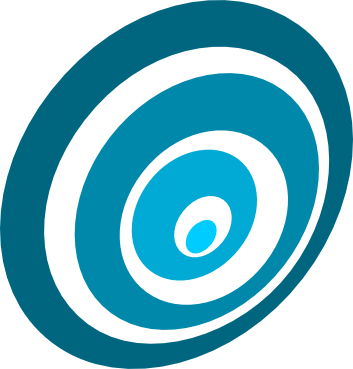
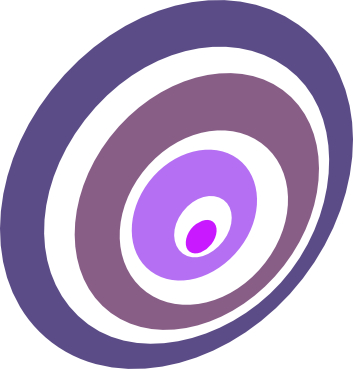
New colour theme!

diff --git a/index.html b/index.html
@@ -24,7 +24,7 @@
 
   .jumbotron {
     font-family: Montserrat, sans-serif;
-    background: #1B6884;
+    background: rgb(91, 76, 135);
     text-align: center;
     color: white;
     min-height: 200px;
@@ -39,7 +39,7 @@
 
 
   .panel-footer.panel-custom {
-    background: #1B6884;
+    background: rgb(91, 76, 135);
     color: white;
     text-align: center;
     padding-top: 25px;
@@ -54,7 +54,7 @@
 
   .navbar-default {
     font-family: Montserrat, sans-serif;
-    background-color: #1B6884;
+    background-color: rgb(91, 76, 135);
     letter-spacing: 2px;
   }
 
@@ -73,7 +73,7 @@
   }
 
   .navbar-default .nav-tabs li a:hover, .navbar-default .nav-tabs .nav-link.active {
-    color: #1B6884 !important;
+    color: rgb(91, 76, 135) !important;
     background-color: #fff !important;
   }
 
@@ -87,13 +87,13 @@
   }
 
   .card-header {
-    background: #1B6884;
+    background: rgb(91, 76, 135);
     color: white;
     height: 175px;
   }
 
   .card-footer {
-    background: #1B6884;
+    background: rgb(91, 76, 135);
     color: white;
     height: 50px;
   }
@@ -179,7 +179,7 @@
 
       <div class="col-12 col-sm-6 col-lg-6 order-1 order-sm-1 order-lg-2">
         <div class="card" style="max-height:900px; min-width: 300px">
-          <img class="card-img-top" src="SMC_Circles.jpg" alt="Card image" style="width:100%; max-height: 300px">
+          <img class="card-img-top" src="SMC_cover.png" alt="Card image" style="width:100%; max-height: 300px">
           <div class="card-header">
             <h3 class="card-title">Sound and Music Computing Network</h3>
           </div>
